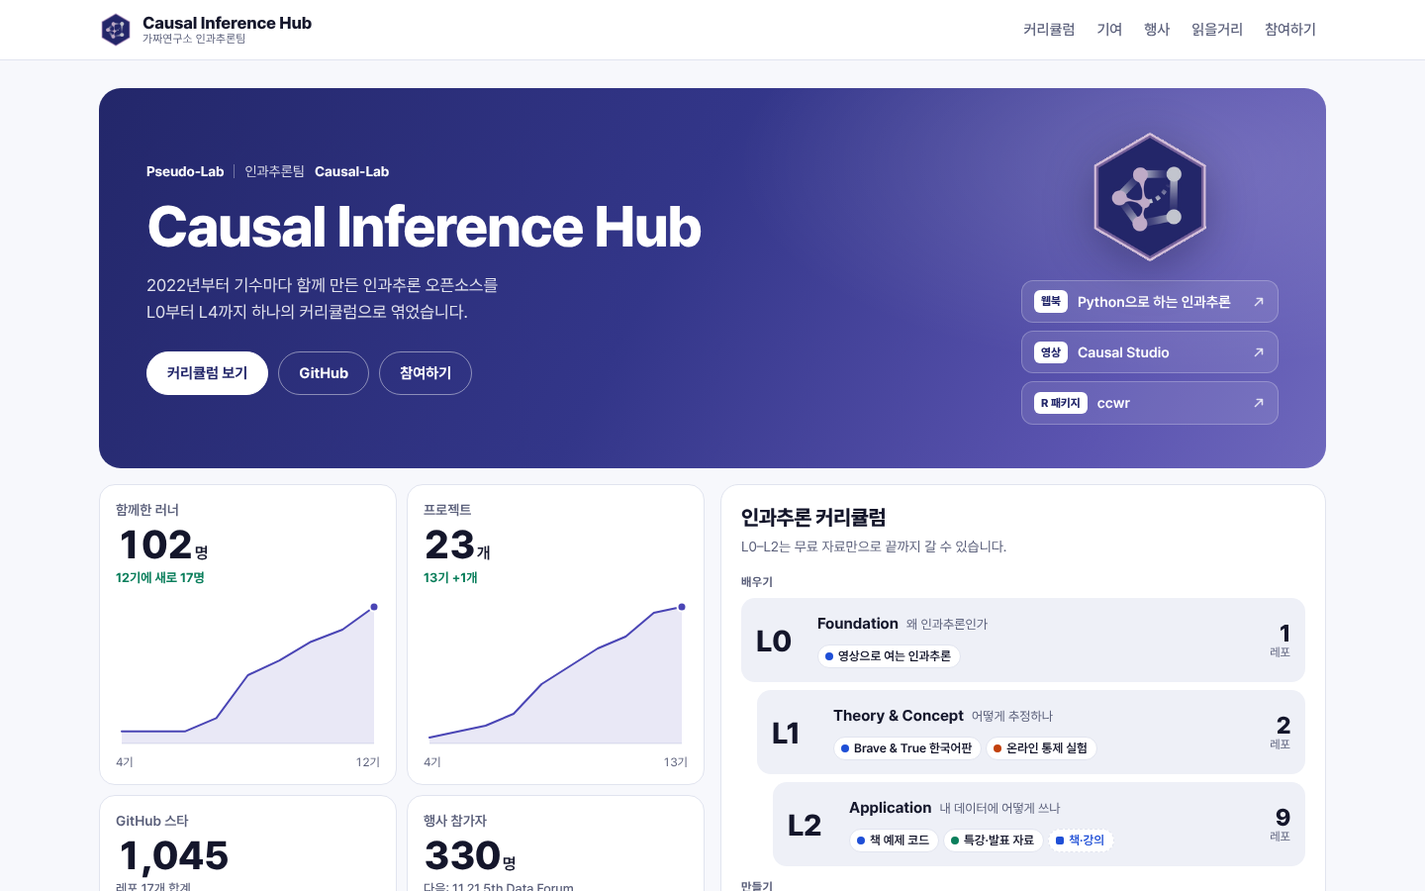
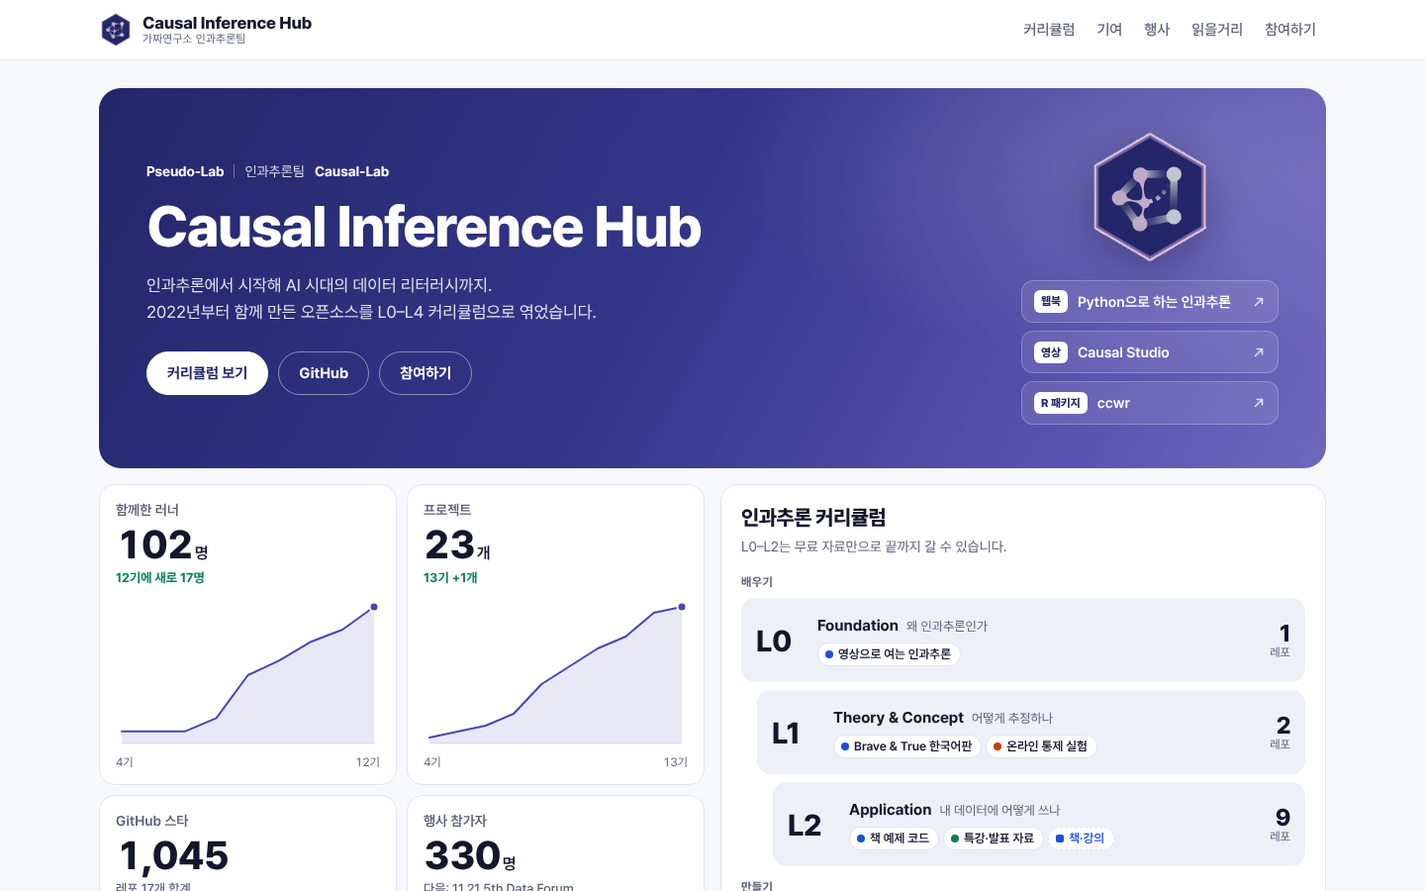
Lead with the track map, add a weekly pick and a sliding Builder rail
- Goal picker moves above the tabs and drives both the map and the list;
  tabs now run track map, curriculum, contribution
- Curriculum tab opens with a pick that rotates every Monday, the four
  most recently updated repos, and a continue row for repos opened before
- Repo cards show how long ago they were updated
- Contribution tab leads with Builder cards that slide sideways and pause
  on hover or focus; the cohort table follows
- Widen the one-line intro beyond causal inference

diff --git a/assets/js/hub.js b/assets/js/hub.js
@@ -3,6 +3,7 @@
 
   const ORG = "CausalInferenceLab";
   const RIDE_KEY = "cil-hub-ridden";
+  const RECENT_KEY = "cil-hub-recent";
   const SVG_NS = "http://www.w3.org/2000/svg";
   const reduceMotion = window.matchMedia && window.matchMedia("(prefers-reduced-motion: reduce)").matches;
 
@@ -26,10 +27,12 @@
   const state = {
     repos: new Map(), lines: new Map(), lineList: [], levels: [], map: null, routes: [],
     projects: [], events: [], articles: [], builders: [], growth: null, stats: null,
-    ridden: new Set(), order: new Map(), route: "all"
+    ridden: new Set(), recent: [], order: new Map(), route: "all"
   };
 
   function loadRidden() { try { state.ridden = new Set(JSON.parse(localStorage.getItem(RIDE_KEY) || "[]")); } catch (e) { state.ridden = new Set(); } }
+  function loadRecent() { try { state.recent = JSON.parse(localStorage.getItem(RECENT_KEY) || "[]").filter((x) => x && x.id); } catch (e) { state.recent = []; } }
+  function saveRecent() { try { localStorage.setItem(RECENT_KEY, JSON.stringify(state.recent.slice(0, 6))); } catch (e) { /* storage unavailable */ } }
   function saveRidden() { try { localStorage.setItem(RIDE_KEY, JSON.stringify([...state.ridden])); } catch (e) { /* storage unavailable */ } }
 
   async function getJSON(path) {
@@ -73,7 +76,7 @@
         if (typeof g.stargazers_count === "number") r.stars = g.stargazers_count;
         if (g.pushed_at) r.pushed = g.pushed_at;
       });
-      renderGrowth(false); renderLadder(); renderShelf(true);
+      renderGrowth(false); renderLadder(); renderShelf(true); renderWeek();
     } catch (e) { /* offline or rate limited: keep the snapshot */ }
   }
 
@@ -251,6 +254,18 @@
   }
 
   const pad2 = (n) => String(n).padStart(2, "0");
+  const DAY = 864e5;
+  const ageDays = (iso) => (iso ? Math.max(0, Math.floor((Date.now() - Date.parse(iso)) / DAY)) : null);
+  function ago(iso) {
+    const d = ageDays(iso);
+    if (d == null) return "";
+    if (d < 1) return "오늘";
+    if (d < 7) return `${d}일 전`;
+    if (d < 31) return `${Math.floor(d / 7)}주 전`;
+    if (d < 365) return `${Math.floor(d / 30)}개월 전`;
+    return `${Math.floor(d / 365)}년 전`;
+  }
+  const learnables = () => [...state.repos.values()].filter((r) => !r.kind && (r.lines || []).length && r.status !== "depot");
   const currentRoute = () => state.routes.find((r) => r.id === state.route);
 
   function episodeHTML(r, level, k, top, step) {
@@ -260,6 +275,7 @@
     const badges = [
       rank >= 0 ? `<span class="b top">TOP ${rank + 1}</span>` : "",
       r.status === "running" ? `<span class="b live">진행 중</span>` : "",
+      r.status !== "running" && ageDays(r.pushed) != null && ageDays(r.pushed) <= 14 ? `<span class="b new">새 업데이트</span>` : "",
       r.kind === "paid" ? `<span class="b paid">유료</span>` : "",
       r.kind === "external" ? `<span class="b ext">팀 밖 오픈소스</span>` : ""
     ].join("");
@@ -277,7 +293,7 @@
           ${state.ridden.has(id) ? `<span class="ep-done" aria-label="학습 완료">✓</span>` : ""}
         </span>
         <span class="ep-body">
-          <span class="ep-track">${tracks}</span>
+          <span class="ep-track">${tracks}${r.pushed && !r.kind ? `<span class="age"> · ${ago(r.pushed)} 업데이트</span>` : ""}</span>
           <h3>${esc(r.title)}</h3>
           <span class="sum">${esc(r.summary)}</span>
           <span class="ep-foot">${people}${r.kind ? "" : `<span class="star">${icons.star}${fmt(r.stars || 0)}</span>`}</span>
@@ -307,7 +323,7 @@
         return chap + items.map((r, k) => episodeHTML(r, lv.id, k, top)).join("");
       }).join("");
       $("#chapters").innerHTML = state.levels.map((lv) => `<button type="button" data-chapter="${lv.id}" style="flex-grow:${byLevel.get(lv.id).length + 1}" aria-current="false"><span class="bar" aria-hidden="true"></span><b>${lv.id}</b> <span class="nm">${esc(lv.name)}</span></button>`).join("");
-      $("#route-note").textContent = "L0부터 L4까지 모든 레포입니다. 목표를 고르면 볼 순서대로 추려 드립니다.";
+      $("#route-note").textContent = "목표를 고르면 트랙 지도와 커리큘럼에 볼 순서가 표시됩니다.";
     }
     wireAvatars(shelf);
 
@@ -315,7 +331,7 @@
     const depot = [...state.repos.values()].filter((r) => r.status === "depot");
     const learnable = repos.filter((r) => (r.lines || []).length);
     const done = learnable.filter((r) => state.ridden.has(r.repo)).length;
-    $("#curriculum-sub").textContent = `팀 레포 ${repos.length}개를 단계 순서로 놓았습니다.`;
+    $("#curriculum-sub").textContent = `팀 레포 ${repos.length}개. 트랙 지도로 전체를 보고, 커리큘럼에서 하나씩 열어 보세요.`;
     $("#n-course").textContent = repos.length;
     $("#shelf-foot").innerHTML = `${done ? `<span class="done-n">학습 완료 ${done} / ${learnable.length}</span> ` : ""}카드를 누르면 자세한 정보와 링크가 열립니다. 운영·보관 레포: ${depot.map((r) => `<a href="${esc(repoUrl(r))}" target="_blank" rel="noopener">${esc(r.title)}</a>`).join(", ")}`;
     shelf.scrollLeft = keepScroll ? prevLeft : 0;
@@ -404,10 +420,11 @@
     const people = new Map();
     const put = (name, cohort, item) => {
       if (!name) return;
-      if (!people.has(name)) people.set(name, { name, projects: 0, runners: 0, first: 99, line: null });
+      if (!people.has(name)) people.set(name, { name, projects: 0, runners: 0, first: 99, line: null, latest: null, latestCohort: -1 });
       const p = people.get(name);
       p.projects += 1; p.runners += item.runners || 0; p.first = Math.min(p.first, cohort);
       if (!p.line && item.line !== "none") p.line = item.line;
+      if (cohort >= p.latestCohort) { p.latestCohort = cohort; p.latest = item; }
       const key = name + "|" + cohort;
       if (!cells.has(key)) cells.set(key, []);
       cells.get(key).push(item);
@@ -424,6 +441,7 @@
     const totals = new Map(cohorts.map((c) => [c, state.projects.filter((p) => p.cohort === c).reduce((s, p) => s + (p.runners || 0), 0)]));
     const maxT = Math.max(...totals.values()) || 1;
     const rows = [...people.values()].sort((a, b) => a.first - b.first || b.projects - a.projects || a.name.localeCompare(b.name, "ko"));
+    renderPeople([...rows].sort((a, b) => b.latestCohort - a.latestCohort || b.projects - a.projects));
 
     const head = `<thead><tr><th scope="col" class="corner">Builder</th>${cohorts.map((c) => `<th scope="col" class="${c === cur ? "cur" : ""}"><b>${c}기</b><span>${esc(shortTerm(terms.get(c)))}</span></th>`).join("")}</tr>
       <tr class="totals"><th scope="row">기수별 러너</th>${cohorts.map((c) => { const t = totals.get(c); return `<td class="${c === cur ? "cur" : ""}"><span class="tb" aria-hidden="true"><i style="height:${Math.max(6, Math.round((t / maxT) * 100))}%"></i></span><span class="tn">${t ? t : "집계 중"}</span></td>`; }).join("")}</tr></thead>`;
@@ -449,6 +467,53 @@
     matrixToEnd();
   }
   function matrixToEnd() { requestAnimationFrame(() => { const sc = $(".matrix-scroll"); sc.scrollLeft = sc.scrollWidth; }); }
+
+
+  /* ---------- Builder rail (contribution tab) ---------- */
+  function renderPeople(list) {
+    const card = (p, copy) => {
+      const info = builderInfo(p.name);
+      const name = info.linkedin ? `<a href="${esc(info.linkedin)}" target="_blank" rel="noopener"${copy ? ' tabindex="-1"' : ""}>${esc(p.name)}</a>` : esc(p.name);
+      const latest = p.latest ? (p.latest.repo && state.repos.get(p.latest.repo) ? state.repos.get(p.latest.repo).title : p.latest.name) : "";
+      return `<li class="pcard" data-line="${p.line || "main"}">${avatarHTML(p.name, "lg")}
+        <div class="pc-body"><b class="pc-name">${name}</b><span class="pc-since">${p.first}기부터 Builder</span>
+          ${info.intro ? `<p class="pc-intro">${esc(info.intro)}</p>` : ""}
+          <span class="pc-stats">프로젝트 <b>${p.projects}</b> · 러너 <b>${fmt(p.runners)}</b></span>
+          ${latest ? `<span class="pc-latest">최근 · ${esc(latest)}</span>` : ""}</div></li>`;
+    };
+    $("#people-rail").innerHTML = `<div class="people-move" style="--dur:${list.length * 6}s"><ul class="people-track">${list.map((p) => card(p, false)).join("")}</ul><ul class="people-track dup" aria-hidden="true">${list.map((p) => card(p, true)).join("")}</ul></div>`;
+    wireAvatars($("#people-rail"));
+  }
+
+  /* ---------- this week (curriculum tab) ---------- */
+  const weekIndex = () => Math.floor((Date.now() - Date.UTC(2026, 0, 5)) / (7 * DAY));
+  function renderWeek() {
+    const list = learnables();
+    if (!list.length) return;
+    const ordered = state.levels.flatMap((lv) => list.filter((r) => r.level === lv.id).sort((a, b) => (b.stars || 0) - (a.stars || 0)));
+    const n = ordered.length;
+    const pick = ordered.at(((weekIndex() % n) + n) % n);
+    const lv = state.levels.find((l) => l.id === pick.level);
+    const who = (pick.builders || []).join(", ");
+    const fresh = list.filter((r) => r.pushed).sort((a, b) => Date.parse(b.pushed) - Date.parse(a.pushed)).slice(0, 4);
+    const recent = state.recent.map((x) => state.repos.get(x.id)).filter(Boolean).slice(0, 3);
+    const done = list.filter((r) => state.ridden.has(r.repo)).length;
+    const cont = recent.length ? `<div class="continue"><span class="cont-label">이어서 보기</span>${recent.map((r) => `<button type="button" class="cont-chip" data-line="${primaryLine(r)}" data-open="${esc(r.repo)}"><i aria-hidden="true"></i>${esc(r.title)}</button>`).join("")}
+      <span class="cont-progress">학습 완료 <b>${done}</b> / ${list.length}<span class="bar" aria-hidden="true"><i style="width:${Math.round((done / list.length) * 100)}%"></i></span></span></div>` : "";
+    $("#week").innerHTML = `${cont}<div class="week-grid">
+      <article class="spot" data-line="${primaryLine(pick)}">
+        <p class="spot-label">이번 주의 레포<span>월요일마다 바뀝니다</span></p>
+        <h3>${esc(pick.title)}</h3>
+        <p class="spot-meta">${lv ? `<span>${lv.id} ${esc(lv.name)}</span>` : ""}${who ? `<span>${esc(who)}</span>` : ""}${pick.stars ? `<span class="star">${icons.star}${fmt(pick.stars)}</span>` : ""}</p>
+        <p class="spot-sum">${esc(pick.summary)}</p>
+        <div class="spot-cta"><button type="button" class="btn" data-open="${esc(pick.repo)}">자세히 보기</button>${pick.site ? `<a class="btn ghost" href="${esc(pick.site)}" target="_blank" rel="noopener">${esc(pick.siteLabel || "사이트 열기")}</a>` : ""}</div>
+      </article>
+      <div class="fresh">
+        <p class="spot-label">최근 업데이트<span>매주 월요일 집계</span></p>
+        <ol>${fresh.map((r) => `<li data-line="${primaryLine(r)}"><button type="button" data-open="${esc(r.repo)}"><i aria-hidden="true"></i><span class="t">${esc(r.title)}</span><span class="d">${ago(r.pushed)}</span></button></li>`).join("")}</ol>
+      </div>
+    </div>`;
+  }
 
   /* ---------- map legend ---------- */
   function renderVLines() {
@@ -622,6 +687,10 @@
   function openStation(id) {
     const r = state.repos.get(id);
     if (!r) return;
+    if (r.kind !== "paid") {
+      state.recent = [{ id, t: Date.now() }, ...state.recent.filter((x) => x.id !== id)].slice(0, 6);
+      saveRecent(); renderWeek();
+    }
     const line = primaryLine(r);
     const lv = state.levels.find((l) => l.id === r.level);
     const lineTags = (r.lines || []).map((lid) => { const l = state.lines.get(lid); return `<span class="tag-line" data-line="${lid}"><span class="num" aria-hidden="true"></span>${esc(l.name)}</span>`; }).join("");
@@ -737,11 +806,11 @@
   }
 
   async function init() {
-    loadRidden();
+    loadRidden(); loadRecent();
     wire();
     try { await load(); } catch (err) { fail(err); return; }
     renderGrowth(); renderLadder();
-    renderRouteChips(); renderShelf();
+    renderRouteChips(); renderShelf(); renderWeek();
     $("#shelf").addEventListener("scroll", shelfSpy, { passive: true });
     renderMatrix();
     renderLegend(); renderMap(); wireTabs();

diff --git a/index.html b/index.html
@@ -4,7 +4,7 @@
 <meta charset="utf-8">
 <meta name="viewport" content="width=device-width, initial-scale=1, viewport-fit=cover">
 <title>Causal Inference Hub | 가짜연구소 인과추론팀</title>
-<meta name="description" content="가짜연구소 인과추론팀이 2022년부터 함께 만든 인과추론 오픈소스와 커리큘럼을 한곳에 모은 허브입니다.">
+<meta name="description" content="인과추론에서 AI 시대의 데이터 리터러시까지. 가짜연구소 인과추론팀이 2022년부터 함께 만든 오픈소스와 커리큘럼을 한곳에 모은 허브입니다.">
 <meta property="og:title" content="Causal Inference Hub | 가짜연구소 인과추론팀">
 <meta property="og:description" content="웹북, 영상, R 패키지까지. 2022년부터 함께 만든 인과추론 오픈소스와 L0–L4 커리큘럼.">
 <meta property="og:image" content="https://causalinferencelab.github.io/assets/img/og-hub.png">
@@ -42,7 +42,7 @@
         <div class="banner-main">
           <p class="banner-kicker"><span>Pseudo-Lab</span><span class="sep" aria-hidden="true"></span>인과추론팀 <b>Causal-Lab</b></p>
           <h1 id="hero-title">Causal Inference Hub</h1>
-          <p class="banner-lede">2022년부터 기수마다 함께 만든 인과추론 오픈소스를 <br>L0부터 L4까지 하나의 커리큘럼으로 엮었습니다.</p>
+          <p class="banner-lede">인과추론에서 시작해 AI 시대의 데이터 리터러시까지. <br>2022년부터 함께 만든 오픈소스를 L0–L4 커리큘럼으로 엮었습니다.</p>
           <div class="banner-cta">
             <a class="pill solid" href="#curriculum">커리큘럼 보기</a>
             <a class="pill" href="https://github.com/CausalInferenceLab" target="_blank" rel="noopener">GitHub</a>
@@ -74,20 +74,31 @@
     <div class="wrap">
       <div class="section-head">
         <h2 id="curriculum-title">커리큘럼과 오픈소스</h2>
-        <p id="curriculum-sub">팀이 만든 레포를 단계 순서로 놓았습니다.</p>
+        <p id="curriculum-sub">트랙 지도로 전체를 보고, 커리큘럼에서 하나씩 열어 보세요.</p>
       </div>
+      <div class="goal-row">
+        <span class="goal-q">무엇을 하고 싶나요?</span>
+        <div class="route-chips" role="radiogroup" aria-label="목표 고르기" id="route-chips"></div>
+      </div>
+      <p class="route-note" id="route-note" aria-live="polite"></p>
       <div class="tabs big" role="tablist" aria-label="보기 방식">
-        <button type="button" role="tab" id="tab-course" aria-controls="panel-course" aria-selected="true">커리큘럼<span class="tab-n" id="n-course"></span></button>
+        <button type="button" role="tab" id="tab-map" aria-controls="panel-map" aria-selected="true">트랙 지도</button>
+        <button type="button" role="tab" id="tab-course" aria-controls="panel-course" aria-selected="false" tabindex="-1">커리큘럼<span class="tab-n" id="n-course"></span></button>
         <button type="button" role="tab" id="tab-contrib" aria-controls="panel-contrib" aria-selected="false" tabindex="-1">기여<span class="tab-n" id="n-contrib"></span></button>
-        <button type="button" role="tab" id="tab-map" aria-controls="panel-map" aria-selected="false" tabindex="-1">트랙 지도</button>
       </div>
 
-      <div id="panel-course" role="tabpanel" aria-labelledby="tab-course">
-        <div class="goal-row">
-          <span class="goal-q">무엇을 하고 싶나요?</span>
-          <div class="route-chips" role="radiogroup" aria-label="목표 고르기" id="route-chips"></div>
+      <div id="panel-map" role="tabpanel" aria-labelledby="tab-map">
+        <div class="map-card">
+          <div class="map-scroll">
+            <svg id="metro" role="img" aria-labelledby="metro-title"><title id="metro-title">인과추론 트랙 지도: L0부터 L4까지 6개 트랙</title></svg>
+          </div>
+          <div class="vlines" id="vlines"></div>
+          <ul class="line-legend" id="line-legend"></ul>
         </div>
-        <p class="route-note" id="route-note" aria-live="polite"></p>
+      </div>
+
+      <div id="panel-course" role="tabpanel" aria-labelledby="tab-course" hidden>
+        <div class="week" id="week"></div>
         <div class="shelf-bar">
           <div class="chapters" id="chapters" role="group" aria-label="단계로 이동"></div>
           <div class="shelf-nav">
@@ -102,6 +113,8 @@
       </div>
 
       <div id="panel-contrib" role="tabpanel" aria-labelledby="tab-contrib" hidden>
+        <div class="people-rail" id="people-rail" aria-label="Builder"></div>
+        <h3 class="contrib-head">기수별로 보기</h3>
         <p class="contrib-sub" id="contrib-sub"></p>
         <div class="matrix-scroll" tabindex="0" aria-label="Builder별 기수 기여표. 좌우로 스크롤할 수 있습니다.">
           <table class="matrix" id="matrix"></table>
@@ -109,15 +122,6 @@
         <ul class="matrix-legend" id="matrix-legend"></ul>
       </div>
 
-      <div id="panel-map" role="tabpanel" aria-labelledby="tab-map" hidden>
-        <div class="map-card">
-          <div class="map-scroll">
-            <svg id="metro" role="img" aria-labelledby="metro-title"><title id="metro-title">인과추론 트랙 지도: L0부터 L4까지 6개 트랙</title></svg>
-          </div>
-          <div class="vlines" id="vlines"></div>
-          <ul class="line-legend" id="line-legend"></ul>
-        </div>
-      </div>
     </div>
   </section>
 

diff --git a/assets/css/hub.css b/assets/css/hub.css
@@ -284,6 +284,63 @@ body::before { content: ""; position: fixed; inset: 0 0 auto; height: env(safe-a
   .goal-row .route-chips .chip { flex-shrink: 0; }
 }
 
+/* This week (curriculum tab): spotlight, recent updates, continue */
+.week { display: grid; gap: 12px; margin: 4px 0 20px; }
+.continue { display: flex; flex-wrap: wrap; align-items: center; gap: 8px; padding: 10px 14px; border: 1px solid var(--rule); border-radius: 12px; background: var(--surface); }
+.cont-label { font-weight: 700; font-size: 14px; margin-right: 4px; }
+.cont-chip { font: inherit; font-size: 13.5px; font-weight: 600; display: inline-flex; align-items: center; gap: 6px; padding: 5px 12px; border-radius: 999px; border: 1.5px solid var(--rule); background: var(--surface); color: var(--ink); cursor: pointer; max-width: 260px; }
+.cont-chip:hover { border-color: var(--ink); }
+.cont-chip i { width: 8px; height: 8px; border-radius: 50%; background: var(--c); flex-shrink: 0; }
+.cont-progress { margin-left: auto; display: flex; align-items: center; gap: 8px; font-size: 13px; color: var(--muted); }
+.cont-progress b { color: var(--ink); }
+.cont-progress .bar { width: 96px; height: 6px; border-radius: 3px; background: var(--surface-2); overflow: hidden; display: inline-block; }
+.cont-progress .bar i { display: block; height: 100%; background: var(--live); }
+.week-grid { display: grid; grid-template-columns: minmax(0, 1.5fr) minmax(0, 1fr); gap: 12px; }
+@media (max-width: 760px) { .week-grid { grid-template-columns: minmax(0, 1fr); } .cont-progress { margin-left: 0; } }
+.spot { position: relative; overflow: hidden; border-radius: 16px; padding: 20px 22px 20px 26px; background: color-mix(in srgb, var(--c) 10%, var(--surface)); border: 1px solid color-mix(in srgb, var(--c) 28%, var(--rule)); }
+.spot::before { content: ""; position: absolute; left: 0; top: 0; bottom: 0; width: 5px; background: var(--c); }
+.spot-label { font-size: 12.5px; font-weight: 700; color: var(--c); }
+.spot-label span { color: var(--muted); font-weight: 500; margin-left: 8px; }
+.spot h3 { font-size: 22px; letter-spacing: -.02em; margin-top: 6px; }
+.spot-meta { display: flex; flex-wrap: wrap; gap: 4px 12px; font-size: 13px; color: var(--muted); margin-top: 4px; }
+.spot-sum { font-size: 14.5px; margin-top: 10px; max-width: 46em; }
+.spot-cta { display: flex; flex-wrap: wrap; gap: 8px; margin-top: 14px; }
+.spot-cta .btn { margin-top: 0; }
+.fresh { border: 1px solid var(--rule); border-radius: 16px; padding: 16px 18px; background: var(--surface); }
+.fresh .spot-label { color: var(--ink); }
+.fresh ol { list-style: none; margin: 6px 0 0; padding: 0; }
+.fresh li button { all: unset; box-sizing: border-box; cursor: pointer; display: flex; align-items: center; gap: 10px; width: 100%; padding: 9px 0; border-bottom: 1px solid var(--rule); font-size: 14px; }
+.fresh li:last-child button { border-bottom: 0; }
+.fresh li button:hover .t { text-decoration: underline; }
+.fresh li button:focus-visible { outline: 3px solid var(--focus); outline-offset: 2px; border-radius: 4px; }
+.fresh li i { width: 8px; height: 8px; border-radius: 50%; background: var(--c); flex-shrink: 0; }
+.fresh .t { flex: 1; min-width: 0; overflow: hidden; text-overflow: ellipsis; white-space: nowrap; font-weight: 600; }
+.fresh .d { color: var(--muted); font-size: 12.5px; white-space: nowrap; }
+.ep-badges .b.new { color: var(--accent); }
+.ep-track .age { color: var(--muted); }
+
+/* Builder rail (contribution tab): slides sideways, pauses on hover or focus */
+.people-rail { overflow: hidden; margin: 0 0 28px; -webkit-mask-image: linear-gradient(90deg, transparent, #000 40px, #000 calc(100% - 40px), transparent); mask-image: linear-gradient(90deg, transparent, #000 40px, #000 calc(100% - 40px), transparent); }
+.people-move { display: flex; gap: 12px; width: max-content; animation: people-slide var(--dur, 60s) linear infinite; }
+.people-rail:hover .people-move, .people-rail:focus-within .people-move { animation-play-state: paused; }
+@keyframes people-slide { from { transform: translateX(0); } to { transform: translateX(calc(-50% - 6px)); } }
+.people-track { list-style: none; margin: 0; padding: 4px 0; display: flex; gap: 12px; }
+.pcard { flex: 0 0 auto; width: 272px; display: flex; gap: 12px; align-items: flex-start; background: var(--surface); border: 1px solid var(--rule); border-radius: 16px; padding: 14px; }
+.pc-body { display: flex; flex-direction: column; gap: 2px; min-width: 0; }
+.pc-name { font-size: 16px; }
+.pc-name a { color: var(--ink); text-decoration: none; }
+.pc-name a:hover { text-decoration: underline; }
+.pc-since { font-size: 12.5px; color: var(--muted); }
+.pc-intro { font-size: 13px; margin-top: 4px; }
+.pc-stats { font-size: 13px; color: var(--muted); margin-top: 6px; }
+.pc-stats b { color: var(--ink); }
+.pc-latest { font-size: 12.5px; color: var(--muted); overflow: hidden; text-overflow: ellipsis; white-space: nowrap; max-width: 180px; }
+.contrib-head { font-size: 16px; font-weight: 700; margin: 0 0 4px; }
+@media (prefers-reduced-motion: reduce) {
+  .people-rail { overflow-x: auto; -webkit-mask-image: none; mask-image: none; }
+  .people-track.dup { display: none; }
+}
+
 /* Contribution table */
 .contrib-sub { color: var(--muted); font-size: 15px; margin-bottom: 14px; }
 .matrix-scroll { overflow-x: auto; background: var(--surface); border: 1px solid var(--rule); border-radius: 16px; }

diff --git a/README.md b/README.md
@@ -2,6 +2,8 @@
 
 가짜연구소 인과추론팀(CausalInferenceLab)의 허브입니다. 2022년부터 기수마다 Builder와 러너가 함께 만든 인과추론 오픈소스를 L0부터 L4까지 하나의 커리큘럼으로 엮고, [Brave & True 인과추론 번역서](https://causalinferencelab.github.io/Causal-Inference-with-Python/), [Causal Studio](https://causalinferencelab.github.io/causal-studio/), [ccwr](https://github.com/CausalInferenceLab/ccwr) 같은 팀의 사이트로 이어 줍니다.
 
+다루는 범위는 인과추론에서 시작해 실험, 데이터 에이전트까지, AI 시대에 데이터로 판단하는 힘 전반입니다.
+
 **사이트: https://causalinferencelab.github.io**
 
 ![Causal Inference Hub](assets/img/hub-preview.png)
@@ -13,9 +15,10 @@
 | 위치 | 내용 |
 | --- | --- |
 | 첫 화면 | 위쪽 배너에서 대표 사이트(웹북, 영상, R 패키지)로 바로 갑니다. 아래 왼쪽은 함께한 러너(중복 제외), 프로젝트, GitHub 스타, 행사 참가자의 추이, 오른쪽은 L0–L4 커리큘럼 한눈에 보기입니다. |
-| 커리큘럼 탭 | 팀 레포 전체를 L0부터 L4까지 챕터로 나눈 가로 목록입니다. 목표를 고르면 그 경로의 레포만 순서대로 보여 줍니다. |
-| 기여 탭 | Builder × 기수 표입니다. 칸 하나가 프로젝트 하나이고, 색은 트랙, 숫자와 진하기는 러너 수입니다. |
-| 트랙 지도 탭 | 같은 레포를 여섯 개 트랙의 지도로 그린 보기입니다. |
+| 목표 고르기 | "처음 시작해요", "A/B 테스트를 해요" 같은 목표를 고르면 트랙 지도와 커리큘럼에 볼 순서가 표시됩니다. |
+| 트랙 지도 탭 | 팀 레포를 여섯 개 트랙과 L0–L4 단계 위에 그린 전체 그림입니다. |
+| 커리큘럼 탭 | 매주 월요일 바뀌는 '이번 주의 레포', 최근 업데이트, 최근에 본 레포(이어서 보기)와 L0–L4 챕터별 가로 목록입니다. |
+| 기여 탭 | 옆으로 흐르는 Builder 카드와, 칸 하나가 프로젝트 하나인 Builder × 기수 표입니다. |
 | 행사 | Data Forum 회차별 참가자 수와 다음 행사입니다. |
 
 러너는 이름 없이 숫자로만 보여 줍니다. 이름은 Builder만 표시합니다.
